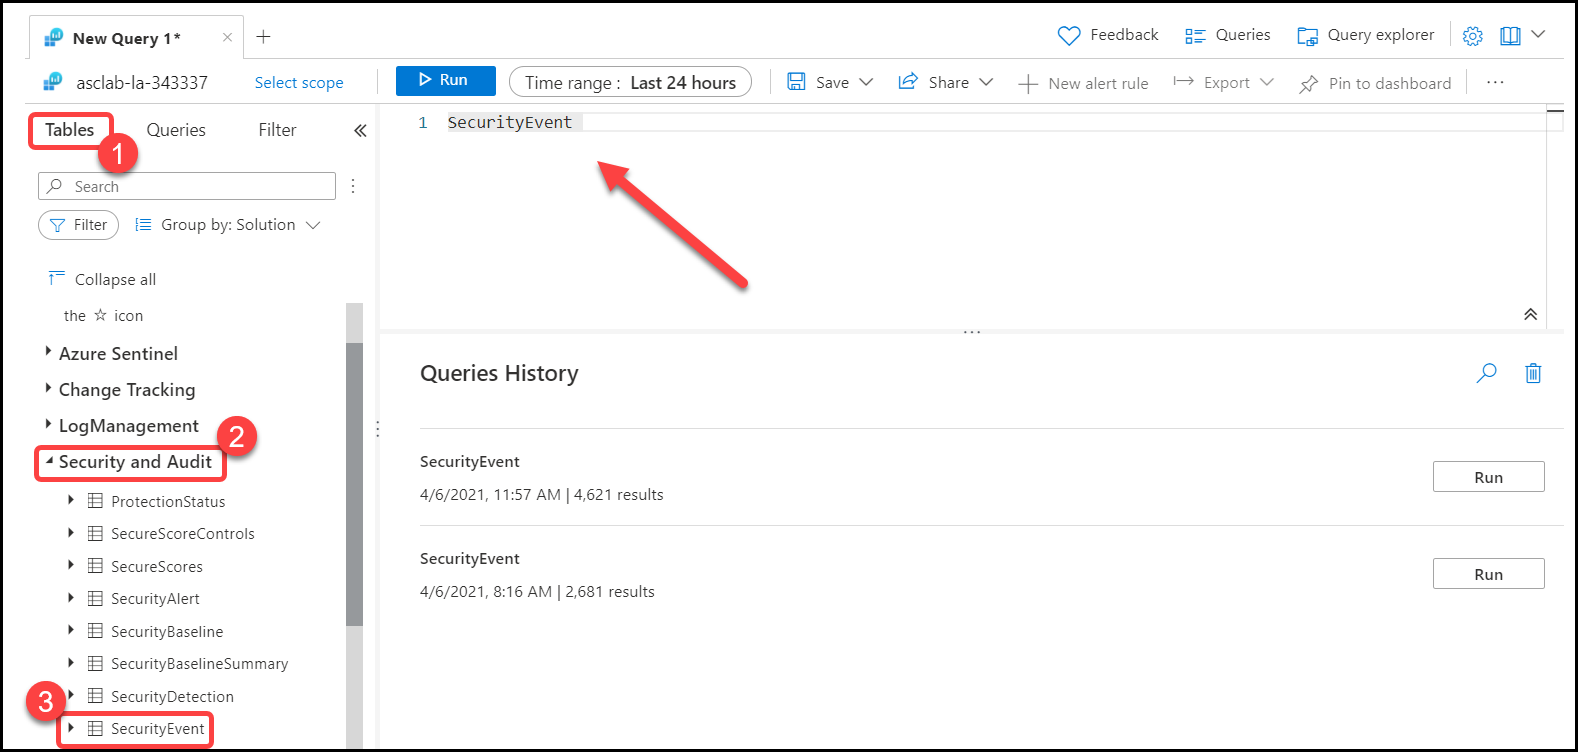
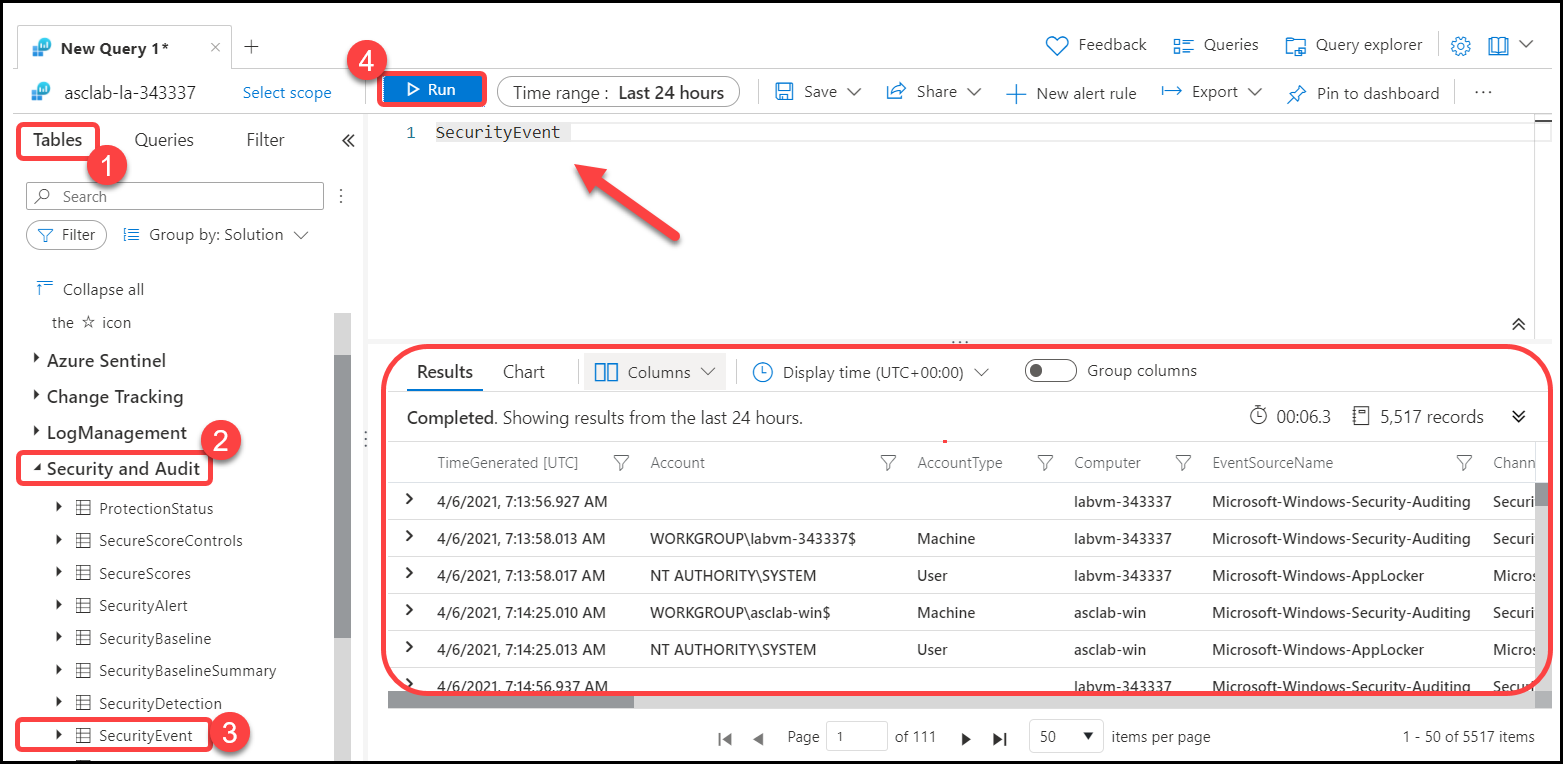
Updated the step 16

diff --git a/Labs/Modules/Module-7-Exporting-ASC-information-to-a-SIEM.md b/Labs/Modules/Module-7-Exporting-ASC-information-to-a-SIEM.md
@@ -53,11 +53,9 @@ Continuous export lets you fully customize what will be exported, and where it w
 
 15.	From the left pane, notice the following tables: `SecurityEvent`, `SecurityBaseline`, `SecurityBaselineSummary` and  `UpdateSummary` in `Security and Audit`.
 
-16.	Query the tables later on to validate data streaming - double click on the desired table to open a new query. Then click **Run**.
+16.	Query the tables to validate data streaming - For example Go to **Tables** expand **Security and Audit** double click on **Security Event** to open in query window. Now click on **Run** and See the results below
 
 ![Respective tables in the Log Analytics workspace](../Images/Log-editor-tables.png)
-
-![Respective tables in the Log Analytics workspace](../Images/log-editor-run.png)
 
 ### Exercise 2: Integration with Azure Sentinel
 
